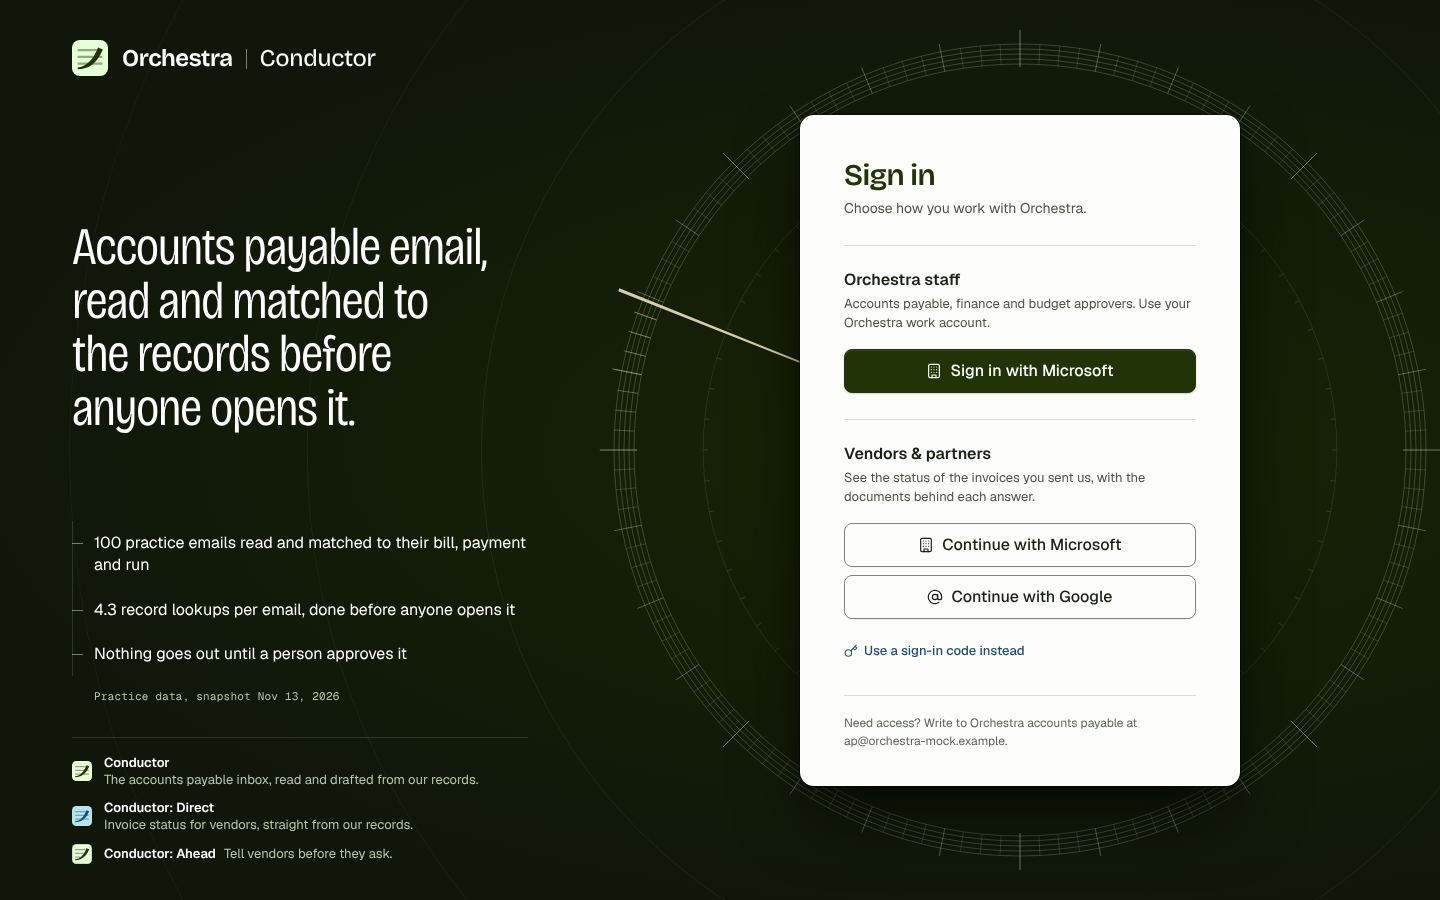
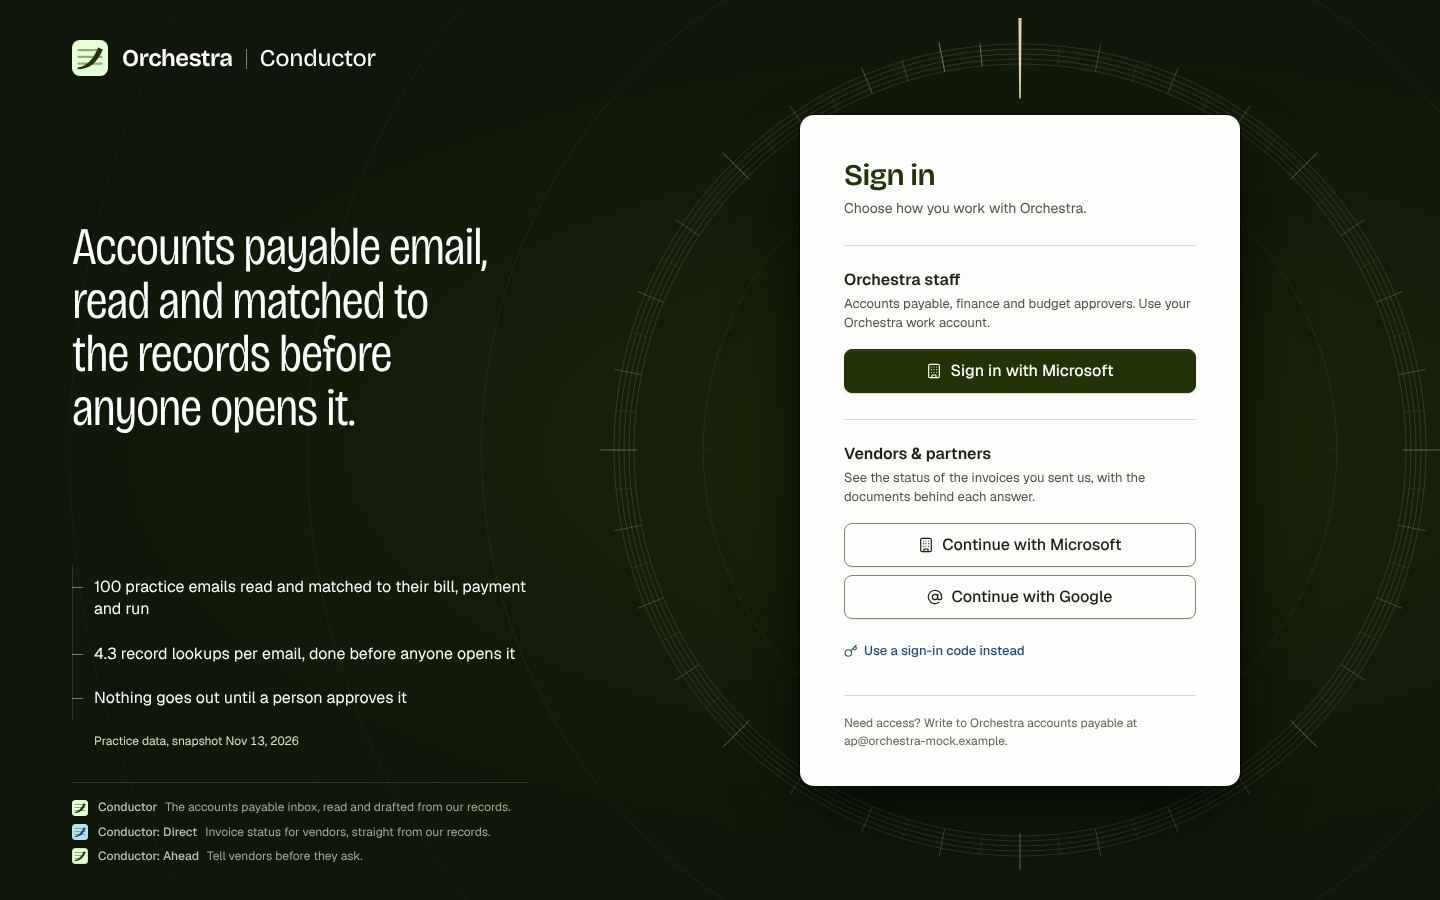
look instrument, round 1: hand clipped clear of the card (rests at twelve under reduced motion), calmer ticks, plain caption, quieter family list, darker dialog backdrop

diff --git a/dashboards/conductor/assets/js/hub/looks/instrument.js b/dashboards/conductor/assets/js/hub/looks/instrument.js
@@ -12,7 +12,7 @@
 /* ---- knobs (see docs/ui-upgrade/looks/instrument.md) ------------------------------------------------------------ */
 export const TUNE = {
   turnSeconds: 64,      // one revolution of the hand: 32 beats of 2 s
-  ticks: 128,           // tempo ticks on the bezel: 8 bars x 4 beats x 4 sixteenths
+  ticks: 64,            // tempo ticks on the bezel: 8 bars x 4 beats x 2 eighths (a multiple of 32)
   staffPitch: 5,        // px between the bezel's five lines (1px line + 4px gap, the staff rule)
   trail: 0.62,          // radians of ticks lit behind the hand
   lens: 1,              // pointer loupe strength (0 = off)
@@ -21,6 +21,7 @@ export const TUNE = {
   handshakeTempo: 4,    // accelerando: the hand runs this much faster during the hand-off to /app
   narrowAlpha: 0.7,     // line strength on the stacked layout, where text scrolls over the art...
   narrowCap: 0.2,       // ...and no line stronger than this there: muted text keeps >= 4.9:1 over any line
+  cardMargin: 16,       // px of clear stage the hand keeps around the card (it is clipped, never drawn over it)
 };
 
 const TAU = Math.PI * 2;
@@ -73,7 +74,9 @@ export function mount(artEl, { reduced = false } = {}) {
     born: performance.now(),
     last: 0, raf: 0,
     px: 0, py: 0, sx: 0, sy: 0, pointerIn: false, lensW: 0,
+    rects: null, rectsUntil: performance.now() + 900, // the card's entrance moves it for ~600 ms
   };
+  const watchPanels = (ms = 700) => { S.rectsUntil = Math.max(S.rectsUntil, performance.now() + ms); };
 
   function resize() {
     const W = artEl.clientWidth || window.innerWidth;
@@ -81,6 +84,7 @@ export function mount(artEl, { reduced = false } = {}) {
     const dpr = Math.min(window.devicePixelRatio || 1, 2);
     if (W === S.W && H === S.H && dpr === S.dpr) return;
     S.W = W; S.H = H; S.dpr = dpr;
+    watchPanels();
     canvas.width = Math.round(W * dpr);
     canvas.height = Math.round(H * dpr);
     S.geom = geometry(W, H, S.handshake);
@@ -100,8 +104,8 @@ export function mount(artEl, { reduced = false } = {}) {
     const still = reduced || !g.wide;
     const reveal = reduced ? 1 : easeOutQuart(clamp((now - S.born) / TUNE.entranceMs, 0, 1));
     // the entrance: the hand makes one fast turn (the downbeat) and draws the dial in behind it. At rest under
-    // reduced motion it stands just above nine o'clock, where most of it shows beside the card.
-    const theta = reduced ? Math.PI + 0.38 : reveal < 1 ? TOP + TAU * reveal : TOP + (S.music / (TUNE.turnSeconds * 1000)) * TAU;
+    // reduced motion it stands at twelve o'clock, above the card.
+    const theta = reduced ? TOP : reveal < 1 ? TOP + TAU * reveal : TOP + (S.music / (TUNE.turnSeconds * 1000)) * TAU;
 
     // pointer: parallax and the loupe, both eased so the dial answers slowly
     let ox = 0; let oy = 0; let lensA = 0; let lensW = 0;
@@ -127,19 +131,19 @@ export function mount(artEl, { reduced = false } = {}) {
     };
     // the hall: three faint outer rings, so the stage has depth beyond the dial
     ring(R * 1.36, 0.07); ring(R * 1.8, 0.05); ring(R * 2.4, 0.04);
-    // the inner track: a ring and 64 short ticks, mostly behind the card
+    // the inner track: a ring and 32 short ticks, mostly behind the card
     const rIn = R * 0.8;
-    ring(rIn, 0.09);
-    ctx.strokeStyle = `rgb(${col.line} / ${A(0.14)})`;
+    ring(rIn, 0.07);
+    ctx.strokeStyle = `rgb(${col.line} / ${A(0.08)})`;
     ctx.beginPath();
-    for (let i = 0; i < 64; i += 1) {
-      const f = i / 64; if (f > reveal) break;
+    for (let i = 0; i < 32; i += 1) {
+      const f = i / 32; if (f > reveal) break;
       const a = TOP + f * TAU; const c = Math.cos(a); const s = Math.sin(a);
       ctx.moveTo(cx + c * rIn, cy + s * rIn); ctx.lineTo(cx + c * (rIn - 5), cy + s * (rIn - 5));
     }
     ctx.stroke();
     // the bezel: the staff rule bent into a circle
-    ctx.strokeStyle = `rgb(${col.line} / ${A(0.2)})`;
+    ctx.strokeStyle = `rgb(${col.line} / ${A(0.13)})`;
     ctx.beginPath();
     for (let j = -2; j <= 2; j += 1) {
       const r = R + j * p;
@@ -148,15 +152,16 @@ export function mount(artEl, { reduced = false } = {}) {
     }
     ctx.stroke();
 
-    // tempo ticks: sixteenths cross the staff, beats reach past it, bars reach furthest
+    // tempo ticks: the minor ticks only cross the staff and stay faint, beats reach past it, bars reach furthest
     const N = TUNE.ticks;
+    const beat = N / 32; const bar = beat * 4;
     const lit = []; // ticks the loupe or the hand's trail brightens, drawn again on top
-    for (const [every, r0, r1, a0] of [[1, R - 2 * p, R + 2 * p, 0.15], [4, R - 2 * p, R + 2 * p + 8, 0.3], [16, R - 2 * p - 3, R + 2 * p + 14, 0.42]]) {
+    for (const [every, r0, r1, a0] of [[1, R - 2 * p, R + 2 * p, 0.08], [beat, R - 2 * p, R + 2 * p + 8, 0.2], [bar, R - 2 * p - 3, R + 2 * p + 14, 0.32]]) {
       ctx.strokeStyle = `rgb(${col.line} / ${A(a0)})`;
       ctx.beginPath();
       for (let i = 0; i < N; i += 1) {
         const f = i / N; if (f > reveal) break;
-        if (i % every !== 0 || (every < 16 && i % (every * 4) === 0)) continue; // each tick belongs to one level
+        if (i % every !== 0 || (every === 1 && i % beat === 0) || (every === beat && i % bar === 0)) continue; // one level per tick
         const a = TOP + f * TAU; const c = Math.cos(a); const s = Math.sin(a);
         ctx.moveTo(cx + c * r0, cy + s * r0); ctx.lineTo(cx + c * r1, cy + s * r1);
         let behind = (theta - a) % TAU; if (behind < 0) behind += TAU;
@@ -174,15 +179,28 @@ export function mount(artEl, { reduced = false } = {}) {
         ctx.beginPath(); ctx.moveTo(cx + c * r0, cy + s * r0); ctx.lineTo(cx + c * r2, cy + s * r2); ctx.stroke();
       }
       if (trail > 0.02) {
-        ctx.strokeStyle = `rgb(${col.brass} / ${(0.35 + 0.55 * (a0 / 0.42)) * trail})`;
+        ctx.strokeStyle = `rgb(${col.brass} / ${(0.35 + 0.55 * (a0 / 0.32)) * trail})`;
         ctx.beginPath(); ctx.moveTo(cx + c * r0, cy + s * r0); ctx.lineTo(cx + c * r2, cy + s * r2); ctx.stroke();
       }
     }
 
-    // the hand: the mark's sweep, 1px at the pivot swelling to 3.2px at the tip (the crescendo). Wide layout only:
-    // there it stays inside the sign-in column, so it never passes behind text.
+    // the hand: the mark's sweep, 1px at the inner track swelling to 3.2px at the tip (the crescendo). Wide layout
+    // only: there it stays inside the sign-in column, so it never passes behind text. It is clipped to the stage
+    // outside the card (and the mailbox) plus a margin, so it never touches or crosses them.
     if (g.wide) {
-      const r0 = R * 0.34; const r1 = R + 2 * p + 26;
+      const r0 = rIn; const r1 = R + 2 * p + 26;
+      ctx.save();
+      const m = TUNE.cardMargin;
+      if (now < S.rectsUntil || !S.rects) { // panels are re-measured only while they can move (see watchPanels)
+        S.rects = [...document.querySelectorAll('.hub-card, .hub-inbox, .hub-handshake-card')].map((el) => el.getBoundingClientRect());
+      }
+      for (const b of S.rects) {
+        if (!b.width || !b.height) continue;
+        ctx.beginPath(); // each clip keeps the stage minus one panel; clips intersect, so panels may overlap safely
+        ctx.rect(0, 0, W, H);
+        ctx.roundRect(b.left - m, b.top - m, b.width + 2 * m, b.height + 2 * m, 14 + m);
+        ctx.clip('evenodd');
+      }
       const c = Math.cos(theta); const s = Math.sin(theta);
       const w0 = 0.5; const w1 = 1.6;
       ctx.fillStyle = `rgb(${col.brass} / ${0.92 * (reduced ? 1 : clamp((reveal - 0.1) / 0.5, 0, 1))})`;
@@ -193,6 +211,7 @@ export function mount(artEl, { reduced = false } = {}) {
       ctx.lineTo(cx + c * r0 + s * w0, cy + s * r0 - c * w0);
       ctx.closePath();
       ctx.fill();
+      ctx.restore();
     }
   }
 
@@ -240,19 +259,30 @@ export function mount(artEl, { reduced = false } = {}) {
   const onVis = () => { if (document.hidden) { cancelAnimationFrame(S.raf); S.raf = 0; } else kick(); };
   document.addEventListener('visibilitychange', onVis);
 
+  // When the loop is idle (reduced motion, narrow), repaint once after the card changes size or the page scrolls, so
+  // the hand's clip around the card stays true.
+  let pending = 0;
+  const repaint = () => {
+    watchPanels();
+    if (S.raf || pending) return;
+    pending = requestAnimationFrame(() => { pending = 0; if (!S.raf && S.geom) draw(performance.now()); });
+  };
+  window.addEventListener('scroll', repaint, { passive: true });
+
   const root = document.getElementById('hub-root');
   const mo = root ? new MutationObserver(() => {
     const hs = !!root.querySelector(':scope > .hub-handshake');
-    if (hs === S.handshake) return;
+    if (hs === S.handshake) { repaint(); return; }
     S.handshake = hs;
     const now = performance.now();
     S.tempoFrom = S.tempo; S.tempoStart = now;
+    watchPanels(900);
     S.to = geometry(S.W, S.H, hs);
     if (reduced) { S.geom = S.to; S.from = null; S.to = null; draw(now); return; }
     S.from = { ...S.geom }; S.tweenStart = now;
     kick();
   }) : null;
-  mo?.observe(root, { childList: true });
+  mo?.observe(root, { childList: true, subtree: true });
 
   resize();
 
@@ -264,6 +294,8 @@ export function mount(artEl, { reduced = false } = {}) {
       window.removeEventListener('pointermove', onMove);
       document.documentElement.removeEventListener('pointerleave', onLeave);
       document.removeEventListener('visibilitychange', onVis);
+      window.removeEventListener('scroll', repaint);
+      cancelAnimationFrame(pending);
       canvas.remove();
     },
   };

diff --git a/dashboards/conductor/assets/css/hub/looks/instrument.css b/dashboards/conductor/assets/css/hub/looks/instrument.css
@@ -11,6 +11,8 @@ html[data-look="instrument"] {
   --instr-stage-lift: var(--p-green-950);                            /* tone shift toward the dial's centre (same hue) */
   --instr-line: color-mix(in srgb, var(--p-mint) 14%, transparent);  /* hairlines on the stage */
   --instr-index: color-mix(in srgb, var(--p-mint) 46%, transparent); /* index ticks on the stage (non-text) */
+  --instr-caption: var(--p-green-250);                               /* small captions on the stage */
+  --instr-quiet: color-mix(in srgb, var(--p-green-300) 85%, var(--deco-hall)); /* 5.6:1 at its worst spot (wide) */
   --instr-shadow-rgb: 3 6 1;   /* near-black green: a shadow must read darker than the stage (not hex; an rgb triple) */
   --instr-card-shadow:
     0 0 0 1px rgb(var(--instr-shadow-rgb) / 0.5),
@@ -55,12 +57,20 @@ html[data-look="instrument"] .hub-proof-list li { position: relative; padding: 1
 html[data-look="instrument"] .hub-proof-list li::before {
   content: ""; position: absolute; left: -22px; top: calc(11px + 0.7em); width: 11px; height: 1px; background: var(--instr-index);
 }
-/* the one true readout on the page: the practice data's snapshot date */
+/* the practice data's snapshot date: a quiet caption on the scale. Pale green (--p-green-250): 13.7:1 on the stage,
+   10.0:1 at its worst spot (the lifted stage under a faint outer ring), 6.5:1 under the strongest line on a phone */
 html[data-look="instrument"] .hub-proof-source {
   padding: 12px 0 0 22px;
-  font-family: var(--font-mono); font-size: var(--fs-2xs); letter-spacing: 0.02em; font-variant-numeric: tabular-nums;
+  font-size: var(--fs-xs); color: var(--instr-caption); font-variant-numeric: tabular-nums;
 }
-html[data-look="instrument"] .hub-family ul { border-top-color: var(--instr-line); }
+
+/* the family list steps back behind the proof points: smaller marks, lighter weight, dimmer taglines */
+html[data-look="instrument"] .hub-family ul { gap: 8px; border-top-color: var(--instr-line); }
+html[data-look="instrument"] .hub-family .c-mark { width: 16px; height: 16px; }
+html[data-look="instrument"] .hub-family-item { gap: 10px; }
+html[data-look="instrument"] .hub-family-text { font-size: var(--fs-xs); }
+html[data-look="instrument"] .hub-family-text strong { font-weight: var(--fw-medium); color: var(--color-chrome-text-muted); }
+html[data-look="instrument"] .hub-family-text span { color: var(--instr-quiet); }
 
 /* ---- the card: the instrument's face ------------------------------------------------------------------------------ */
 html[data-look="instrument"] .hub-card {
@@ -77,7 +87,9 @@ html[data-look="instrument"] .hub-inbox {
 
 /* the provider window floats on the same stage */
 html[data-look="instrument"] dialog.hub-provider { border: 0; box-shadow: var(--instr-card-shadow); }
-html[data-look="instrument"] dialog.hub-provider::backdrop { background: rgb(var(--instr-shadow-rgb) / 0.6); }
+/* the backdrop all but hides the stage and the headline, so only the window reads */
+/* (literal triple = --instr-shadow-rgb: ::backdrop does not inherit custom properties in every engine) */
+html[data-look="instrument"] dialog.hub-provider::backdrop { background: rgb(3 6 1 / 0.84); }
 
 /* ---- the handshake: the dial glides to the centre and the hand quickens; the card arrives on it -------------------- */
 html[data-look="instrument"] .hub-handshake { background: transparent; }
@@ -114,6 +126,8 @@ html[data-look="instrument"] .hub-family { animation: instr-fade 420ms var(--eas
   html[data-look="instrument"] .hub-family { background: transparent; }
   html[data-look="instrument"] .hub-value { margin-top: 32px; font-size: clamp(30px, 7.6vw, 40px); max-width: 15ch; }
   html[data-look="instrument"] .hub-proof { margin-top: var(--s-5); }
+  /* text scrolls over the fixed art here: taglines keep the brighter muted tone (>= 4.9:1 over any line) */
+  html[data-look="instrument"] .hub-family-text span { color: var(--color-chrome-text-muted); }
 }
 @media (max-width: 520px) {
   html[data-look="instrument"] .hub-card { padding: 28px 22px 24px; }

diff --git a/docs/ui-upgrade/looks/instrument.md b/docs/ui-upgrade/looks/instrument.md
@@ -14,36 +14,42 @@ tempo ticks around it, and its sweep turned into the one slow hand, with the sig
 - The bezel is the **staff rule** (five 1px lines on a 5px pitch), the product's signature, bent into a circle.
 - The **hand is the mark's sweep**: 1px at the pivot, swelling to 3.2px at the tip (the mark's 1.6 to 4.6 crescendo),
   in pale brass, the one decorative highlight. It is the only solid thing on the stage, as the sweep is in the mark.
-- The **ticks are rhythm, not a clock**: 128 = 8 bars x 4 beats x 4 sixteenths. Sixteenths cross the staff, beats
-  reach past it, bars reach furthest. The beats the hand has just passed light up in brass and stand up a little,
+- The **ticks are rhythm, not a clock**: 64 = 8 bars x 4 beats x 2 eighths. The minor ticks only cross the staff and
+  stay faint (0.08), beats reach past it (0.2), bars reach furthest (0.32). The beats the hand has just passed light up in brass and stand up a little,
   then settle: the score being read, not seconds being counted.
 - The dial is centred on the sign-in card, so everything on the stage points at the one bright thing. In the handshake
   the dial glides to the hand-off card and the hand quickens (an accelerando into `/app`).
 - Swap the product name and the staff-bezel, the swelling hand and the bar/beat count no longer mean anything.
 
-No numbers, labels or readouts are drawn in the art. The only "readout" is text already on the page: the practice-data
-snapshot date, set in Geist Mono.
+No numbers, labels or readouts are drawn in the art. The practice-data snapshot date is a plain 12px caption in Geist,
+pale green `--p-green-250`: 13.7:1 on the stage, 10.0:1 at its worst spot (lifted stage under a faint outer ring),
+6.5:1 under the strongest line on a phone.
 
 ## What the look includes
 
 1. **Art** (one canvas): stage tone shift (CSS radial from `--p-green-950` to `--deco-hall`, same hue), three faint
    outer rings, the inner track (ring + 64 short ticks, mostly behind the card), the staff bezel with 128 tempo ticks,
-   the hand with its lit beat trail. Pointer (fine pointers only): ticks near the pointer lengthen and brighten (a
+   the hand with its lit beat trail. The hand runs from the inner track (0.8 R) to just past the bezel and is clipped
+   to the stage outside the card, the mailbox and the handshake card plus a 16px margin (`TUNE.cardMargin`), so it never
+   touches or crosses a panel in any state. Panel rectangles are re-measured only while they can move (entrance,
+   resize, scroll, a change inside `#hub-root`). Pointer (fine pointers only): ticks near the pointer lengthen and brighten (a
    loupe, eased over ~240 ms), and the dial drifts up to 5px against the pointer.
 2. **Brand column, an instrument's legend**: no green slab; the headline in Bricolage Grotesque at weight 300,
    `font-stretch: 84%` (light condensed, like dial lettering; deliberately not Instrument Serif, so look B does not read
    like the paper/editorial looks), proof points on a scale (one vertical hairline, an index tick per point), the
-   snapshot line as a mono readout, the family list under a faint hairline.
+   snapshot caption, then the family list stepped back: 16px marks, 12px text, names at weight 500 in the muted tone,
+   taglines dimmer (`--instr-quiet`, 5.6:1 at its worst spot; the brighter muted tone on phones, >= 4.9:1).
 3. **Card**: bright paper panel (`--color-surface`), 14px radius, no border, a layered near-black-green shadow that reads
    darker than the stage. The provider dialog and the simulated mailbox float with the same shadow; the dialog
-   backdrop is the same near-black green at 60%.
+   backdrop is the same near-black green at 84%, so the headline behind it drops to about (44,46,42) on the stage and
+   only the window reads.
 4. **Handshake**: transparent over the stage, the card arrives (opacity + 8px rise + 0.985 scale, 480 ms emphasized
    ease); the dial and the stage light glide to the screen centre in 700 ms and the hand runs 4x faster.
 5. **Entrance (< 700 ms)**: the hand makes one fast turn from twelve o'clock and draws the dial in behind it (660 ms,
    ease-out quart), the card column rises 14px and fades in (480 ms after 120 ms = 600 ms), the legend fades (420 ms
    after 60 ms). Nothing else moves.
-6. **Reduced motion**: one designed still frame: the whole dial, the hand standing just above nine o'clock where most
-   of it shows beside the card, the beats behind it lit. No entrance, no loop, no pointer response, no CSS animations.
+6. **Reduced motion**: one designed still frame: the whole dial, the hand standing at twelve o'clock above the card,
+   the beats behind it lit; repainted once if the card changes size or the page scrolls. No entrance, no loop, no pointer response, no CSS animations.
 7. **Narrow (stacked layout, <= 960px)**: a quarter of the dial rises from the top-right corner behind the header,
    with no hand and no trail, drawn once (static after the 660 ms draw-in). The card stays first-class. The handshake
    on a phone centres a larger dial that shows above and below the card.
@@ -53,6 +59,8 @@ snapshot date, set in Geist Mono.
 | Knob | Where | Default |
 |---|---|---|
 | Hand speed (calm vs alive) | `TUNE.turnSeconds` in instrument.js | 64 s per turn |
+| Tick density | `TUNE.ticks` (a multiple of 32), the per-level alphas in `draw()` | 64 |
+| Clear space around the card | `TUNE.cardMargin` | 16 px |
 | Trail length / brightness of the lit beats | `TUNE.trail`, the brass alpha in the lit-ticks loop | 0.62 rad |
 | Pointer response | `TUNE.lens` (loupe, 0 = off), `TUNE.parallax` (px) | 1, 5 |
 | Entrance and hand-off | `TUNE.entranceMs`, `TUNE.handshakeTempo`, CSS `instr-rise` / `instr-arrive` | 660 ms, 4x |
@@ -60,7 +68,8 @@ snapshot date, set in Geist Mono.
 | Stage tone and card lift | CSS `--instr-stage`, `--instr-stage-lift`, `--instr-card-shadow` | hall ink, green-950 |
 | Headline voice | `.hub-value` weight / `font-stretch` in instrument.css | 300 / 84% |
 
-Line alphas per element (rings 0.04-0.09, staff 0.2, sixteenths 0.15, beats 0.3, bars 0.42) are inline in `draw()`.
+Line alphas per element (outer rings 0.04-0.07, inner track 0.07/0.08, staff 0.13, minor ticks 0.08, beats 0.2,
+bars 0.32) are inline in `draw()`.
 
 ## Measured frame cost
 
@@ -69,9 +78,12 @@ Playwright, headless Chromium, every `requestAnimationFrame` callback timed with
 
 | Viewport | DPR | avg | p50 | p95 | max |
 |---|---|---|---|---|---|
-| 1440x900 | 2 | 0.27 ms | 0.30 | 0.40 | 0.70 |
-| 1280x800 | 1 | 0.38 ms | 0.30 | 0.60 | 5.6 (one outlier, first frames) |
-| 1920x1080 | 2 | 0.26 ms | 0.20 | 0.40 | 2.4 |
+| 1440x900 | 2 | 0.40 ms | 0.20 | 1.0 | 13.2 |
+| 1920x1080 | 2 | 0.28 ms | 0.20 | 0.40 | 4.3 |
+| 1280x800 | 1 | 0.56 ms | 0.20 | 3.2 | 11.6 |
+
+(Round 1, measured while two other workers' suites ran on the same machine; the outliers are single frames and the
+p50 is unchanged. The first round, on a quieter machine, measured 0.27 / 0.26 / 0.38 ms average.)
 
 Mean frame interval 16.7 ms (60 fps held). Zero rAF callbacks while the tab reports hidden. Under reduced motion and on
 the stacked layout the loop stops after one frame (or after the 660 ms draw-in). The draw is about 20 batched strokes
@@ -79,7 +91,7 @@ plus up to ~40 single strokes for lit ticks; raster/composite cost of the full-v
 
 ## Contrast (worst spots)
 
-Lines are mint (`--p-mint`) at the alpha above, over the stage (`#10170a` to `#182404`). White text over a line at 0.2
+Lines are mint (`--p-mint`) at the alpha above, over the stage (hall ink to green-950). White text over a line at 0.2
 on the lighter stage: 8.7:1; muted text (`--color-chrome-text-muted`) over 0.2: 4.9:1. On the wide layout the brand
 column only ever has the outer rings (<= 0.07) behind it (muted >= 7.5:1); the bezel, ticks, trail and hand are kept
 inside the sign-in column by `geometry()` (radius bound to the brand column's text edge). On the stacked layout, where
@@ -97,7 +109,7 @@ text scrolls over the fixed art, no line is stronger than 0.2 and there is no br
 - On phones the bezel passes behind the right end of the headline; lines are capped at 0.2 there (white text >= 8.7:1).
 - `.hub-help` gained a hairline above it inside the card (closes the card like a dial's footer); no copy changed.
 - Proposed tokens (in instrument.css, scoped to the look): `--instr-stage`, `--instr-stage-lift`, `--instr-line`,
-  `--instr-index`, `--instr-shadow-rgb` (`3 6 1`, a near-black green: the shadow scale's `--p-shadow-rgb` is almost the
+  `--instr-index`, `--instr-caption`, `--instr-quiet`, `--instr-shadow-rgb` (`3 6 1`, a near-black green: the shadow scale's `--p-shadow-rgb` is almost the
   stage colour, so shadows on the stage were invisible), `--instr-card-shadow`, and the registered
   `--instr-dial-x/--instr-dial-y`.
 - Rejected: a metronome pendulum (reads as an object, near clip-art); a radar-style sweep wedge ("hacker"); numerals or
